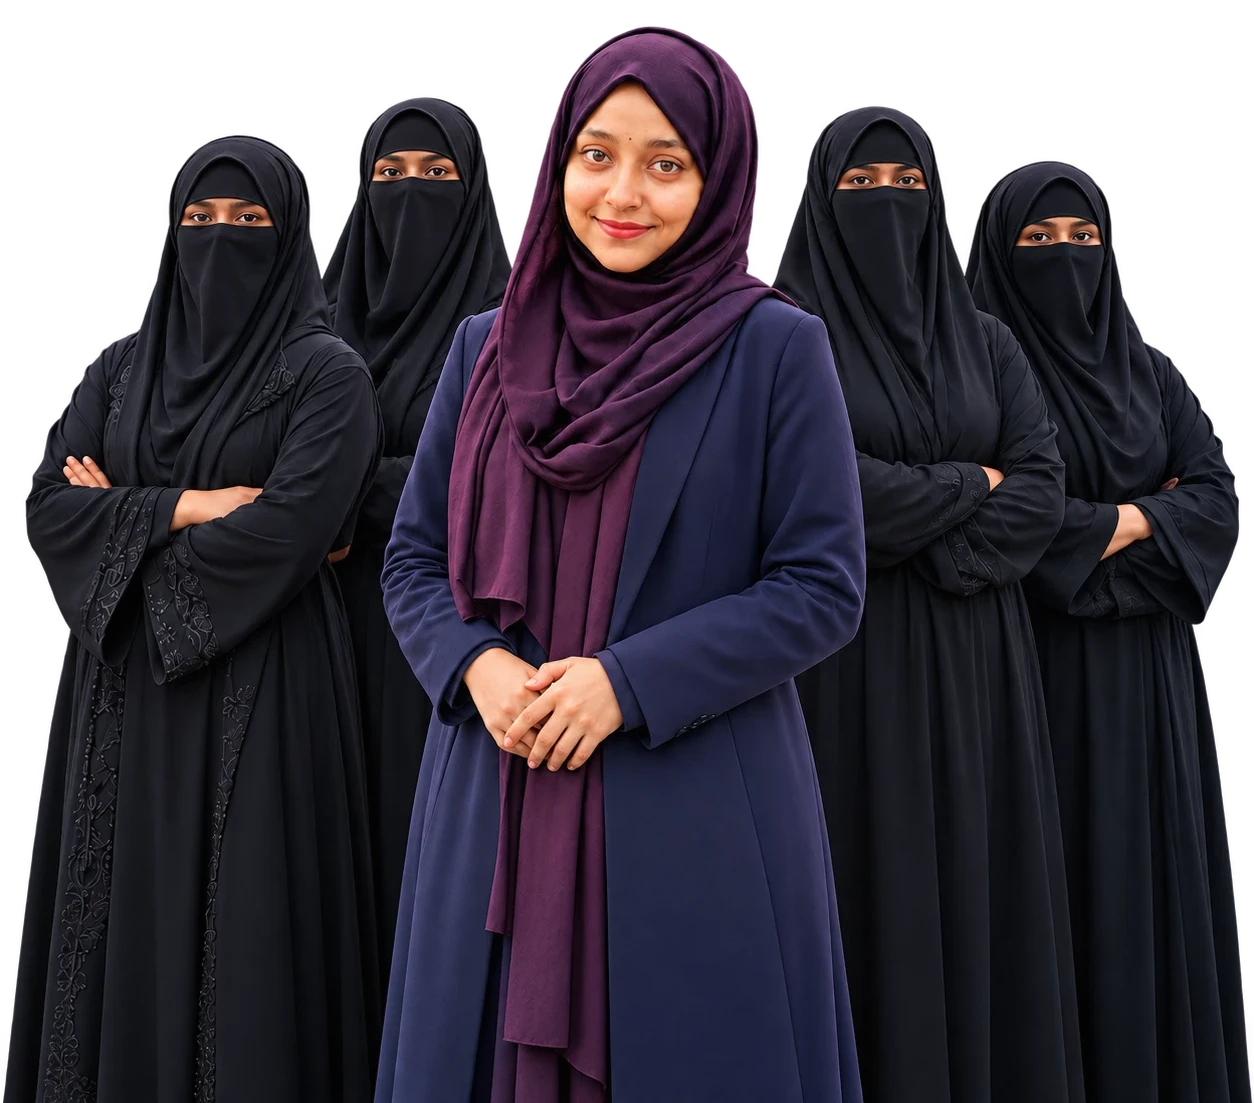
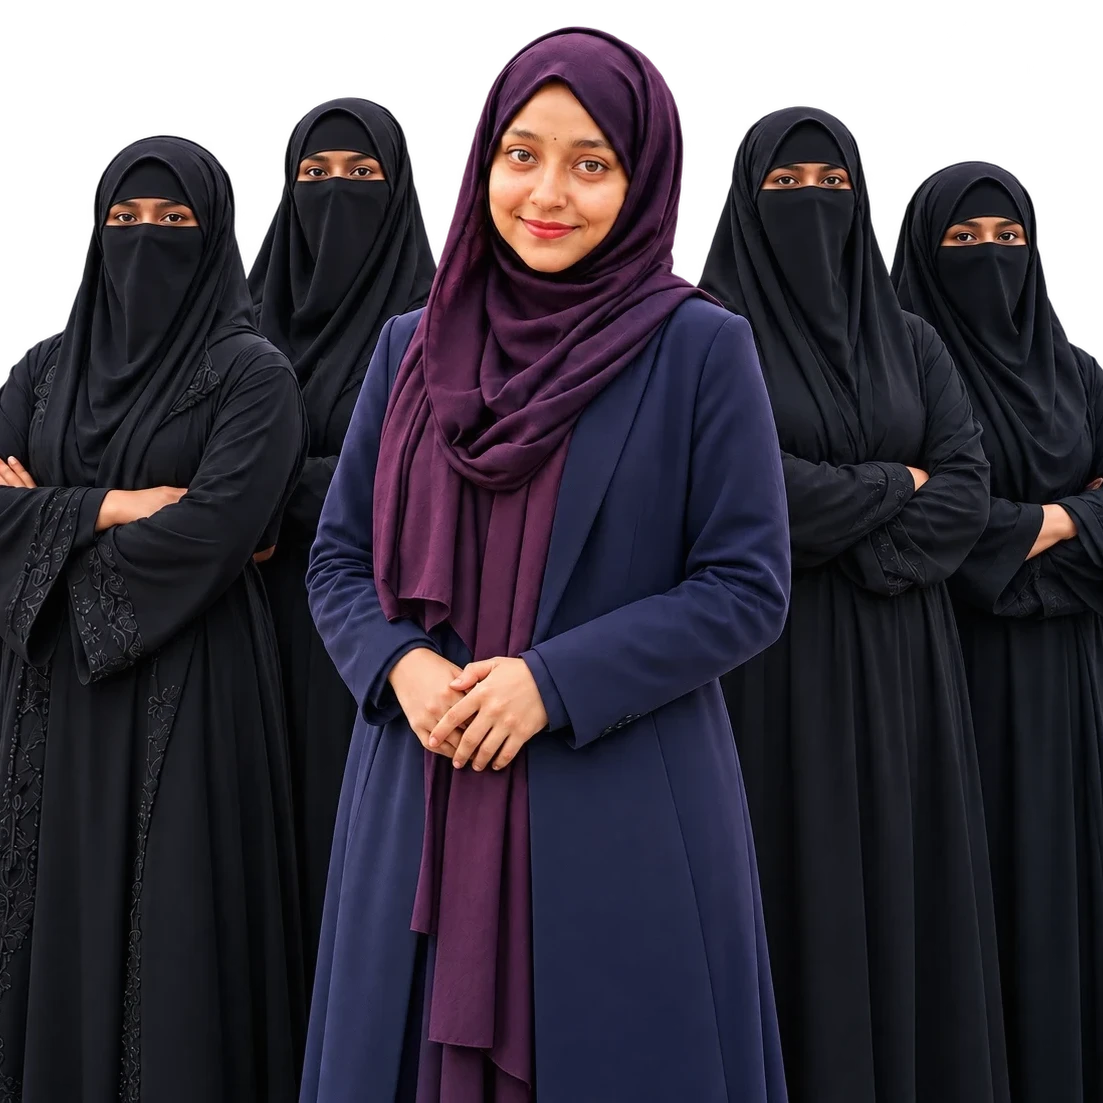
Make hero photo a full circle instead of rounded-rect
Center-crops the photo to a true square (real image content to every
edge, no transparent padding) and masks it with border-radius:50% +
object-fit:cover for a clean circular frame.

Claude-Session: https://claude.ai/code/session_01SKNRRLZifGHrhMzjep5CXm

diff --git a/style.css b/style.css
@@ -3,7 +3,7 @@ Theme Name: Women's Fight Agency
 Theme URI: https://womensfight.agency
 Author: Women's Fight
 Description: Dark, vivid multi-page agency theme for Women's Fight, built around the brand's real pink-magenta-to-blue logo mark, fully in Bangla, with real editable WordPress Pages (Block Editor and Elementor ready out of the box) and an interactive AI Agent audience-estimator tool.
-Version: 3.5
+Version: 3.6
 Requires at least: 5.9
 Requires PHP: 7.4
 Requires Plugins: elementor
@@ -115,8 +115,8 @@ header.nav{position:sticky; top:0; z-index:60; background:rgba(10,8,23,.82); bac
 @keyframes spin{to{transform:rotate(360deg);}}
 .hero-visual .card{position:relative; width:56%; aspect-ratio:1/1; border-radius:36px; overflow:hidden; box-shadow:var(--shadow); border:1px solid var(--border); background:var(--surface); display:flex; align-items:center; justify-content:center; padding:14%;}
 .hero-visual .card img{width:100%; height:100%; object-fit:contain;}
-.hero-visual .card.photo{width:92%; aspect-ratio:1137/1000; padding:0; background:none; border:none; box-shadow:none; overflow:visible;}
-.hero-visual .card.photo img{object-fit:contain; border-radius:32px; filter:drop-shadow(0 18px 30px rgba(0,0,0,.45));}
+.hero-visual .card.photo{width:82%; aspect-ratio:1/1; padding:0; background:none; border:none; box-shadow:none; overflow:visible;}
+.hero-visual .card.photo img{width:100%; height:100%; object-fit:cover; border-radius:50%; filter:drop-shadow(0 18px 30px rgba(0,0,0,.45));}
 .hero-visual .float{position:absolute; background:var(--surface); border:1px solid var(--border); border-radius:16px; padding:12px 16px; box-shadow:var(--shadow); font-size:.84rem; font-weight:700; display:flex; align-items:center; gap:10px; color:var(--ink);}
 .hero-visual .float.f1{top:4%; left:0;} .hero-visual .float.f2{bottom:6%; right:0;}
 .dot{width:9px; height:9px; border-radius:50%; background:var(--grad); flex:none;}
